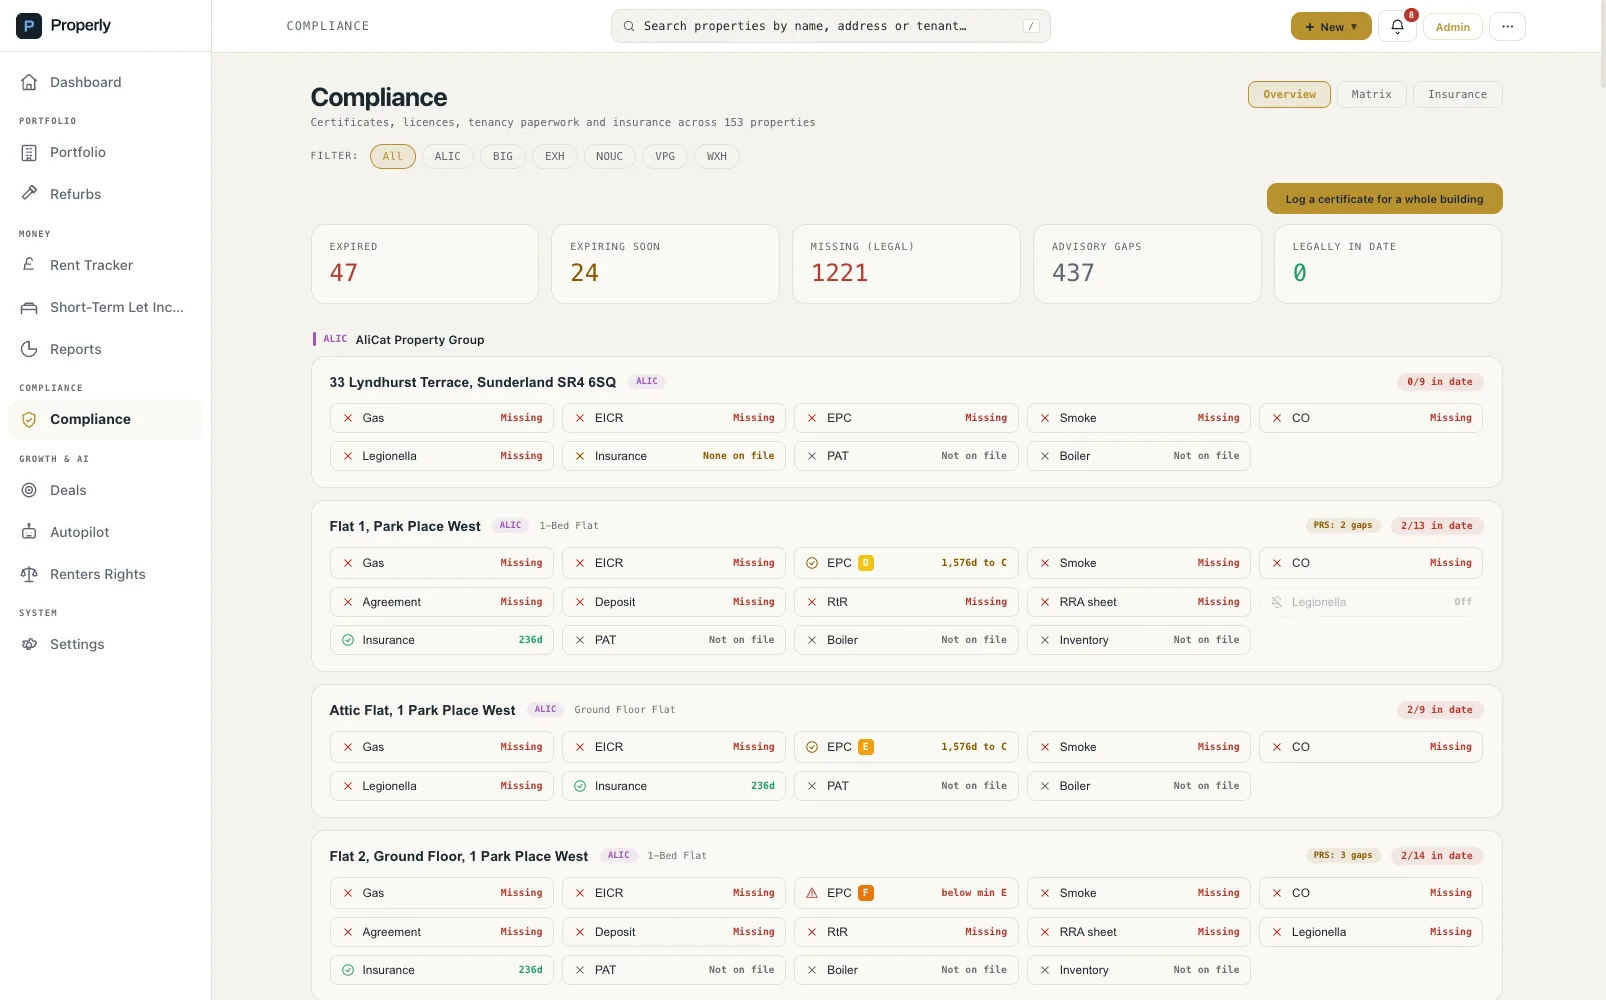
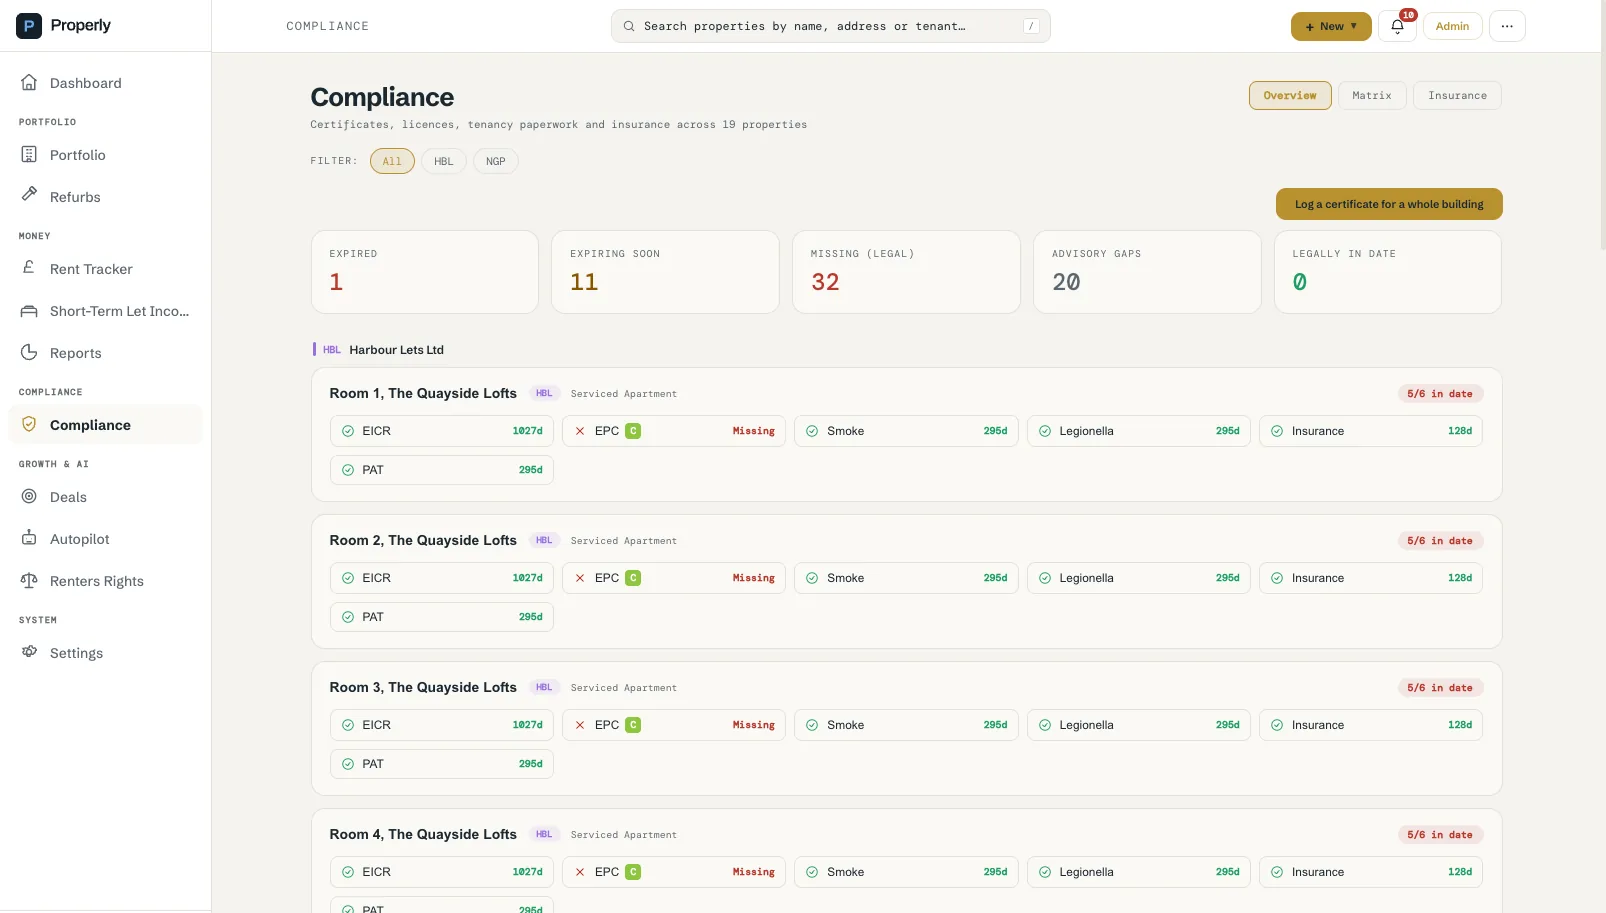
Marketing: Inside Properly on the demo account (12 screens); impersonation scopes companies (#149)
* Marketing: Inside Properly shows the demo account (12 screens), impersonation scopes companies too

The six marketing screenshots were captures of the founder's real portfolio
with names masked. They are replaced by twelve captures of the fictional
demo account (Northgate Property Ltd + Harbour Lets Ltd) taken 8 Sep 2026
via Platform Admin > Impersonate: dashboard, portfolio, property, rent
tracker, short-term lets, reports, compliance, deals pipeline, deal
calculator, refurbs, autopilot and the branded tenant portal sign-in. The
copy no longer refers to a 153-property portfolio or to masking, each tab
has its own URL label, and the frame is 1606x913.

App.jsx: while impersonating, filter the company list to the impersonated
user's companies as well as the properties. Until now the company chips,
the By Company cards and the "N companies" summary showed every company the
admin could see, each with zero properties, next to the impersonated user's
data.

* Marketing: re-capture the demo dashboard now that Rental Income leads the page

The dashboard changed after the first capture (Rental Income section with
due vs collected by month and by company now leads it), so the Inside
Properly dashboard tab showed the old layout. Re-captured from the demo
account and the caption updated to describe the new page.

---------

diff --git a/src/components/MarketingSite.jsx b/src/components/MarketingSite.jsx
@@ -149,29 +149,49 @@ const steps = [
   { n: '3', title: 'Run your portfolio', desc: 'Track rent, stay compliant, manage repairs and generate reports — everything from one clean dashboard.' },
 ]
 
-// Real screens from a live portfolio (the founder's own), captured 7 Sep
-// 2026. Guest and manager names are masked; the properties are not.
-// Files live in public/screens; crop is the top 1000px of a 1606px-wide app
-// window, saved as WebP.
+// Real screens from a live Properly account, captured 8 Sep 2026: the demo
+// portfolio (Northgate Property Ltd and Harbour Lets Ltd, 19 units across two
+// companies, fictional people). Files live in public/screens; each is the
+// top 913px of a 1606px-wide app window, saved as WebP. Refresh recipe: sign
+// in as a platform admin, Impersonate the demo user, capture with
+// html-to-image.
 const SCREENS = [
-  { id: 'dashboard',  label: 'Dashboard',        img: '/screens/dashboard.webp',
+  { id: 'dashboard',  label: 'Dashboard',        img: '/screens/dashboard.webp', url: 'dashboard',
     title: 'The whole portfolio on one page',
-    desc: '153 properties across six companies: value, equity, a health score, the items that need attention today, Autopilot suggestions and AI insights that name the property and the number.' },
-  { id: 'rent',       label: 'Rent Tracker',     img: '/screens/rent-tracker.webp',
+    desc: 'Rental Income leads the page: rent due against collected for every month of the year and for every company, then value, equity, arrears, occupancy and a health score, with the items that need attention today, a portfolio map, Autopilot suggestions and AI insights underneath.' },
+  { id: 'portfolio',  label: 'Portfolio',        img: '/screens/portfolio.webp', url: 'properties',
+    title: 'Every unit, grouped by company and building',
+    desc: 'Houses, flats in a block, HMO rooms and serviced apartments in one list or grid, with status, yield and rent on every row, filters by company and status, a map view and a one-step block-of-flats add.' },
+  { id: 'property',   label: 'Property',         img: '/screens/property.webp', url: 'detail',
+    title: 'One page per property, one tab per job',
+    desc: 'Rent history month by month, tenancy, financials, compliance certificates, maintenance, documents, expenses and the refurb ledger for a single property, with the arrears position and quick stats always in view.' },
+  { id: 'rent',       label: 'Rent Tracker',     img: '/screens/rent-tracker.webp', url: 'rent',
     title: 'Every month of every tenancy, at a glance',
-    desc: 'Paid, due, missed and part-paid month squares per property, grouped by company and building, with the collection rate and arrears position for the year always current.' },
-  { id: 'stl',        label: 'Short-term lets',  img: '/screens/stl-income.webp',
+    desc: 'Paid, due, missed and part-paid month squares per property, grouped by company and building, with the collection rate and arrears position for the year and a day-by-day view for the current month.' },
+  { id: 'stl',        label: 'Short-term lets',  img: '/screens/stl-income.webp', url: 'stl',
     title: 'Airbnb and Booking.com income, after the fees',
-    desc: 'Gross, platform fees, manager fees and net to owner for any period; occupancy, ADR and RevPAR on the rooms actually open; who is in house tonight and who arrives this week.' },
-  { id: 'compliance', label: 'Compliance',       img: '/screens/compliance.webp',
+    desc: 'Gross, platform fees, manager fees and net to owner for any period; occupancy, ADR and RevPAR on the rooms actually open; who is in house tonight and what is arriving, synced from Hostaway or Lodgify.' },
+  { id: 'reports',    label: 'Reports',          img: '/screens/reports.webp', url: 'reports/full_pnl',
+    title: 'Twenty reports, one click each',
+    desc: 'Full Portfolio P&L per property and per company, cash flow, yield comparison, arrears, compliance, mortgage interest, capital gains and the MTD tax pack, for any tax year or calendar year, as PDF or CSV.' },
+  { id: 'compliance', label: 'Compliance',       img: '/screens/compliance.webp', url: 'compliance',
     title: 'Certificates and paperwork per property',
-    desc: 'Gas, EICR, EPC, smoke and CO, licences, deposits and Right to Rent for each unit, with legal requirements separated from advisory gaps and a one-click entry for a whole building.' },
-  { id: 'deals',      label: 'Deals',            img: '/screens/deals.webp',
+    desc: 'Gas, EICR, EPC, smoke and CO, licences, deposits and Right to Rent for each unit, with legal requirements separated from advisory gaps, an expiry matrix, insurance per building and automatic reminders.' },
+  { id: 'deals',      label: 'Deals',            img: '/screens/deals.webp', url: 'deals/pipeline',
     title: 'A pipeline for what you might buy next',
-    desc: 'Analysing, offer made, under offer, exchanged and completed, with price, yield and photos on every card and a full deal pack PDF one click away.' },
-  { id: 'refurbs',    label: 'Refurbs',          img: '/screens/refurbs.webp',
+    desc: 'Analysing, offer made, under offer, exchanged and completed on a board or list, with price, yield and cash committed on every card, a purchase timeline of milestones and a full deal pack PDF one click away.' },
+  { id: 'deal-calc',  label: 'Deal calculator',  img: '/screens/deal-calculator.webp', url: 'deals/deal',
+    title: 'Stamp duty, mortgage and returns before you offer',
+    desc: 'Buy-to-let, HMO, serviced apartment, BRR or flip: acquisition costs with the additional-property surcharge, mortgage and rental income, gross yield, net yield, cash-on-cash return and a ten-year projection.' },
+  { id: 'refurbs',    label: 'Refurbs',          img: '/screens/refurbs.webp', url: 'refurbs',
     title: 'Agreed price against what you have paid',
-    desc: 'Each refurb with its agreed total, extras, payments so far and remaining to pay, filtered by company, so the money committed to works is never a guess.' },
+    desc: 'Each refurb with its agreed total, extras, payments so far and remaining to pay, on a list, a stage board or a payments ledger, filtered by company, so the money committed to works is never a guess.' },
+  { id: 'autopilot',  label: 'Autopilot',        img: '/screens/autopilot.webp', url: 'autopilot',
+    title: 'A daily to-do list the software writes for you',
+    desc: 'Expired gas certificates, boiler services due, smoke alarm tests, insurance renewals and rent arrears, each with a plain-English draft to send, so the day starts with actions instead of spreadsheets.' },
+  { id: 'tenant',     label: 'Tenant portal',    img: '/screens/tenant-portal.webp', url: 'portal',
+    title: 'Your tenants get their own branded portal',
+    desc: 'A sign-in page on your-company.ownproperly.com where tenants see their tenancy, payment history and shared documents, and raise repairs with photos, in your company name and colours.' },
 ]
 
 export default function MarketingSite({ onSignIn, onSignUp, onPrivacy }) {
@@ -259,9 +279,9 @@ export default function MarketingSite({ onSignIn, onSignUp, onPrivacy }) {
         <div style={{ maxWidth: 1100, margin: '0 auto' }}>
           <div style={{ textAlign: 'center', marginBottom: 36 }}>
             <div style={{ fontFamily: MONO, fontSize: 11, color: GOLD, textTransform: 'uppercase', letterSpacing: '0.12em', marginBottom: 12 }}>Inside Properly</div>
-            <h2 style={{ fontSize: 36, fontWeight: 600, color: SLATE, letterSpacing: '-0.02em', marginBottom: 14 }}>Real screens, real portfolio</h2>
+            <h2 style={{ fontSize: 36, fontWeight: 600, color: SLATE, letterSpacing: '-0.02em', marginBottom: 14 }}>Real screens, live account</h2>
             <p style={{ fontFamily: MONO, fontSize: 14, color: MUTED, lineHeight: 1.7, maxWidth: 600, margin: '0 auto' }}>
-              These are live pages from the founder's own 153-property portfolio, not mock-ups. Guest and manager names are masked; everything else is as it runs today.
+              These are live pages from a working Properly account, not mock-ups: a two-company portfolio of houses, a block of flats, an HMO and six serviced apartments, exactly as it runs today.
             </p>
           </div>
           <div className="screen-tabs" role="tablist" aria-label="Product screens" style={{ display: 'flex', gap: 6, justifyContent: 'center', flexWrap: 'wrap', marginBottom: 22 }}>
@@ -275,9 +295,9 @@ export default function MarketingSite({ onSignIn, onSignUp, onPrivacy }) {
           <div className="screen-frame">
             <div className="screen-frame-bar" aria-hidden="true">
               <span/><span/><span/>
-              <div className="screen-frame-url">www.ownproperly.com/#/{shot.id}</div>
+              <div className="screen-frame-url">www.ownproperly.com/#/{shot.url}</div>
             </div>
-            <img key={shot.id} src={shot.img} alt={`Properly ${shot.label} page: ${shot.title}`} width={1606} height={1000} loading={shot.id === SCREENS[0].id ? 'eager' : 'lazy'} decoding="async"
+            <img key={shot.id} src={shot.img} alt={`Properly ${shot.label} page: ${shot.title}`} width={1606} height={913} loading={shot.id === SCREENS[0].id ? 'eager' : 'lazy'} decoding="async"
               style={{ display: 'block', width: '100%', height: 'auto' }}/>
           </div>
           <div className="screen-caption" style={{ display: 'flex', gap: 24, alignItems: 'flex-start', marginTop: 22, maxWidth: 860, margin: '22px auto 0' }}>

diff --git a/src/App.jsx b/src/App.jsx
@@ -1505,6 +1505,11 @@ export default function App() {
               ...targetAccessEmail.map(a => a.company_id),
             ])
             visibleProps = props.filter(p => targetCompanyIds.has(p.company_id))
+            // Until 2026-09-08 only the properties were filtered, so the
+            // company chips, the By Company cards and the "N companies"
+            // summary still showed every company the admin could see, each
+            // with zero properties, next to the impersonated user's data.
+            visibleCos = cos.filter(c => targetCompanyIds.has(c.id))
           } catch(e) { console.error('Impersonation filter failed', e) }
         }
         // ─── Suspended-company access control ────────────────────────────
